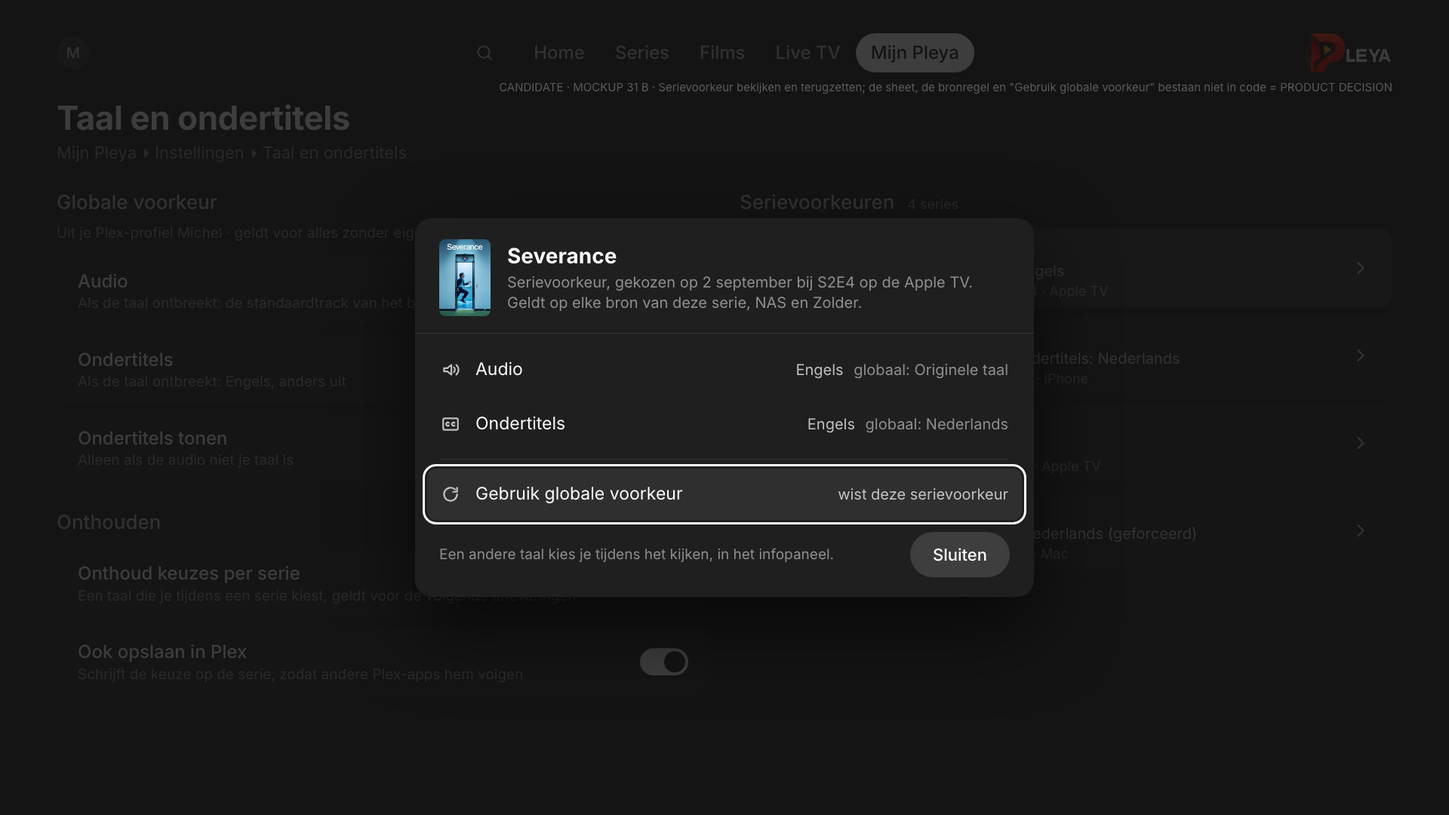
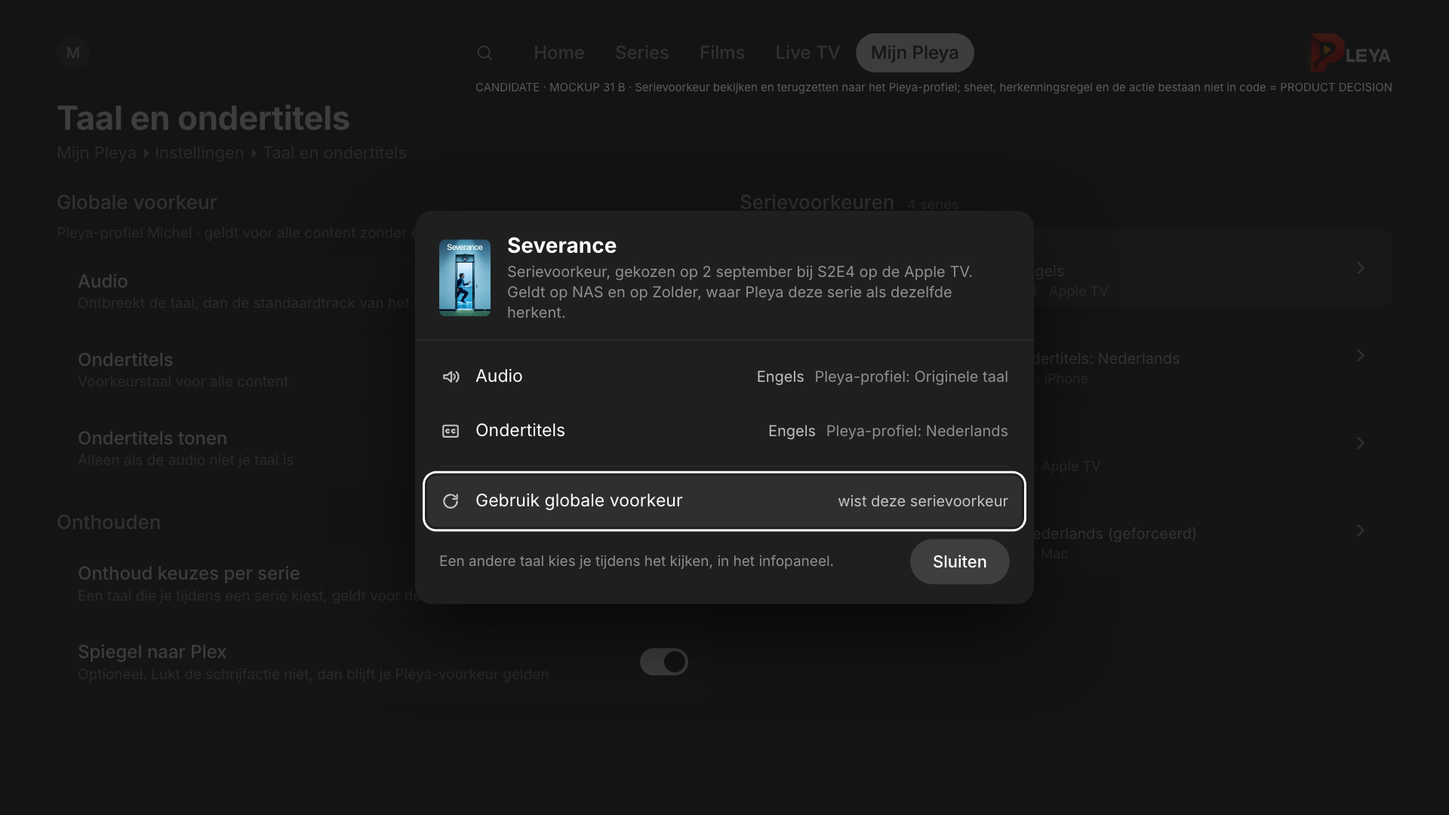
docs(tv): DEC-096 accepted, het Pleya-profiel is eigenaar van de globale taalvoorkeur, mockup 31 gecorrigeerd (LANG1)

diff --git a/docs/assets/tvos-unified/src/pages/31-taalvoorkeuren-b.html b/docs/assets/tvos-unified/src/pages/31-taalvoorkeuren-b.html
@@ -29,16 +29,16 @@
   <div class="two">
     <div>
       <div class="group-label">Globale voorkeur</div>
-      <div class="src">Uit je Plex-profiel Michel · geldt voor alles zonder eigen voorkeur</div>
+      <div class="src">Pleya-profiel Michel · geldt voor alle content zonder eigen serievoorkeur</div>
       <div class="rows">
-        <div class="row"><div class="body"><div class="t">Audio</div><div class="s">Als de taal ontbreekt: de standaardtrack van het bestand</div></div><div class="val">Originele taal</div>{{icon:chev}}</div>
-        <div class="row"><div class="body"><div class="t">Ondertitels</div><div class="s">Als de taal ontbreekt: Engels, anders uit</div></div><div class="val">Nederlands</div>{{icon:chev}}</div>
+        <div class="row"><div class="body"><div class="t">Audio</div><div class="s">Ontbreekt de taal, dan de standaardtrack van het bestand</div></div><div class="val">Originele taal</div>{{icon:chev}}</div>
+        <div class="row"><div class="body"><div class="t">Ondertitels</div><div class="s">Voorkeurstaal voor alle content</div></div><div class="val">Nederlands</div>{{icon:chev}}</div>
         <div class="row"><div class="body"><div class="t">Ondertitels tonen</div><div class="s">Alleen als de audio niet je taal is</div></div><div class="val">Bij vreemde taal</div>{{icon:chev}}</div>
       </div>
       <div class="group-label">Onthouden</div>
       <div class="rows">
         <div class="row"><div class="body"><div class="t">Onthoud keuzes per serie</div><div class="s">Een taal die je tijdens een serie kiest, geldt voor de volgende afleveringen</div></div><div class="switch on"></div></div>
-        <div class="row"><div class="body"><div class="t">Ook opslaan in Plex</div><div class="s">Schrijft de keuze op de serie, zodat andere Plex-apps hem volgen</div></div><div class="switch on"></div></div>
+        <div class="row"><div class="body"><div class="t">Spiegel naar Plex</div><div class="s">Optioneel. Lukt de schrijfactie niet, dan blijft je Pleya-voorkeur gelden</div></div><div class="switch on"></div></div>
       </div>
     </div>
     <div>
@@ -54,13 +54,13 @@
 </div>
 <div class="scrim" style="background:rgba(20,20,20,.5)"></div>
 <div class="modal sheet">
-  <div class="head"><img src="{{art:severance-poster}}"><div><div class="t">Severance</div><div class="s">Serievoorkeur, gekozen op 2 september bij S2E4 op de Apple TV.<br>Geldt op elke bron van deze serie, NAS en Zolder.</div></div></div>
+  <div class="head"><img src="{{art:severance-poster}}"><div><div class="t">Severance</div><div class="s">Serievoorkeur, gekozen op 2 september bij S2E4 op de Apple TV.<br>Geldt op NAS en op Zolder, waar Pleya deze serie als dezelfde herkent.</div></div></div>
   <div class="opts">
-    <div class="opt">{{icon:audio}} Audio <span class="r">Engels <span class="muted">globaal: Originele taal</span></span></div>
-    <div class="opt">{{icon:cc}} Ondertitels <span class="r">Engels <span class="muted">globaal: Nederlands</span></span></div>
+    <div class="opt">{{icon:audio}} Audio <span class="r">Engels <span class="muted">Pleya-profiel: Originele taal</span></span></div>
+    <div class="opt">{{icon:cc}} Ondertitels <span class="r">Engels <span class="muted">Pleya-profiel: Nederlands</span></span></div>
     <div class="opt sep"></div>
     <div class="opt focus">{{icon:refresh}} Gebruik globale voorkeur <span class="r muted">wist deze serievoorkeur</span></div>
   </div>
   <div style="padding:0 32px 26px;display:flex;justify-content:space-between;align-items:center"><span class="muted" style="font-size:19px">Een andere taal kies je tijdens het kijken, in het infopaneel.</span><div class="btn">Sluiten</div></div>
 </div>
-<div class="note">CANDIDATE · MOCKUP 31 B · Serievoorkeur bekijken en terugzetten; de sheet, de bronregel en "Gebruik globale voorkeur" bestaan niet in code = PRODUCT DECISION</div>
+<div class="note">CANDIDATE · MOCKUP 31 B · Serievoorkeur bekijken en terugzetten naar het Pleya-profiel; sheet, herkenningsregel en de actie bestaan niet in code = PRODUCT DECISION</div>

diff --git a/docs/assets/tvos-unified/src/pages/31-taalvoorkeuren-d.html b/docs/assets/tvos-unified/src/pages/31-taalvoorkeuren-d.html
@@ -1,18 +1,16 @@
 <style>
 .video { position: absolute; inset: 0; }
 .video img { width: 100%; height: 100%; object-fit: cover; object-position: 50% 40%; display: block; }
-.osd-top { position: absolute; inset: 0; background: linear-gradient(180deg, rgba(20,20,20,.75) 0%, rgba(20,20,20,0) 28%, rgba(20,20,20,0) 100%); }
-.tinfo { position: absolute; left: var(--inset); top: 56px; }
-.tinfo .t { font-size: 34px; font-weight: 700; }
-.tinfo .s { font-size: 21px; color: var(--ink-2); margin-top: 6px; }
-.tinfo .s .tag { margin-left: 8px; }
-.toast { position: absolute; left: 50%; bottom: 120px; transform: translateX(-50%); background: rgba(20,20,20,.86); border-radius: 18px; padding: 20px 30px; display: flex; align-items: center; gap: 20px; white-space: nowrap; box-shadow: 0 20px 60px rgba(0,0,0,.45); }
+.toast { position: absolute; left: 50%; top: 44px; transform: translateX(-50%); background: rgba(20,20,20,.86); border-radius: 18px; padding: 18px 28px; display: flex; align-items: center; gap: 18px; white-space: nowrap; box-shadow: 0 20px 60px rgba(0,0,0,.45); }
 .toast .pt { width: 14px; height: 14px; border-radius: 999px; background: var(--amber); flex: none; }
 .toast .t { font-size: 24px; font-weight: 500; }
 .toast .s { font-size: 19px; color: var(--ink-3); margin-top: 3px; }
+.subs { position: absolute; left: 0; right: 0; bottom: 92px; text-align: center; font-size: 38px; font-weight: 500; line-height: 1.25; text-shadow: 0 2px 6px rgba(0,0,0,.9); }
+.zone { position: absolute; left: 0; right: 0; top: 0; height: 140px; border-bottom: 1px dashed rgba(255,255,255,.18); }
+.zone span { position: absolute; right: var(--inset); bottom: 8px; font-size: 15px; color: var(--ink-4); }
 </style>
 <div class="video"><img src="{{art:severance-backdrop}}"></div>
-<div class="osd-top"></div>
-<div class="tinfo"><div class="t">Severance · S2E5 Trojan's Horse</div><div class="s">Zolder · 2160p · Engels · Nederlands (ondertiteling) <span class="tag">Direct play</span></div></div>
-<div class="toast"><div class="pt"></div><div><div class="t">Geen Engelse ondertitels in deze aflevering · nu Nederlands</div><div class="s">Je voorkeur voor Severance blijft Engels en geldt weer zodra een aflevering het heeft.</div></div></div>
-<div class="note" style="top:auto;bottom:22px;right:auto;left:50%;transform:translateX(-50%);white-space:nowrap">CANDIDATE · MOCKUP 31 D · Start van een aflevering waarin de serievoorkeur ontbreekt: tijdelijke terugval, de voorkeur blijft staan; de toast bestaat niet in code = PRODUCT DECISION</div>
+<div class="zone"><span>toastzone: bovenband 44, IgnorePointer, auto-hide</span></div>
+<div class="toast"><div class="pt"></div><div><div class="t">Geen Engelse ondertitels in deze aflevering · nu Nederlands</div><div class="s">Je voorkeur voor Severance blijft Engels en geldt weer zodra een aflevering hem heeft.</div></div></div>
+<div class="subs">Wat er beneden gebeurt, blijft beneden.</div>
+<div class="note" style="top:auto;bottom:22px;right:auto;left:50%;transform:translateX(-50%);white-space:nowrap">CANDIDATE · MOCKUP 31 D · Aflevering waarin de serievoorkeur ontbreekt: tijdelijke terugval, opslag blijft. Toast in dezelfde bovenzone, ondertitels onaangeroerd = PRODUCT DECISION</div>

diff --git a/docs/assets/tvos-unified/src/pages/31-taalvoorkeuren-a.html b/docs/assets/tvos-unified/src/pages/31-taalvoorkeuren-a.html
@@ -17,16 +17,17 @@
   <div class="two">
     <div>
       <div class="group-label">Globale voorkeur</div>
-      <div class="src">Uit je Plex-profiel Michel · geldt voor alles zonder eigen voorkeur</div>
+      <div class="src">Pleya-profiel Michel · geldt voor alle content zonder eigen serievoorkeur</div>
       <div class="rows">
-        <div class="row"><div class="body"><div class="t">Audio</div><div class="s">Als de taal ontbreekt: de standaardtrack van het bestand</div></div><div class="val">Originele taal</div>{{icon:chev}}</div>
-        <div class="row"><div class="body"><div class="t">Ondertitels</div><div class="s">Als de taal ontbreekt: Engels, anders uit</div></div><div class="val">Nederlands</div>{{icon:chev}}</div>
+        <div class="row"><div class="body"><div class="t">Audio</div><div class="s">Ontbreekt de taal, dan de standaardtrack van het bestand</div></div><div class="val">Originele taal</div>{{icon:chev}}</div>
+        <div class="row"><div class="body"><div class="t">Ondertitels</div><div class="s">Voorkeurstaal voor alle content</div></div><div class="val">Nederlands</div>{{icon:chev}}</div>
+        <div class="row"><div class="body"><div class="t">Terugvaltaal ondertitels</div><div class="s">Ontbreekt je voorkeurstaal, dan deze. Ontbreekt die ook, dan gaan ondertitels uit</div></div><div class="val">Engels</div>{{icon:chev}}</div>
         <div class="row"><div class="body"><div class="t">Ondertitels tonen</div><div class="s">Alleen als de audio niet je taal is</div></div><div class="val">Bij vreemde taal</div>{{icon:chev}}</div>
       </div>
       <div class="group-label">Onthouden</div>
       <div class="rows">
         <div class="row"><div class="body"><div class="t">Onthoud keuzes per serie</div><div class="s">Een taal die je tijdens een serie kiest, geldt voor de volgende afleveringen</div></div><div class="switch on"></div></div>
-        <div class="row"><div class="body"><div class="t">Ook opslaan in Plex</div><div class="s">Schrijft de keuze op de serie, zodat andere Plex-apps hem volgen</div></div><div class="switch on"></div></div>
+        <div class="row"><div class="body"><div class="t">Spiegel naar Plex</div><div class="s">Schrijft de keuze ook op de serie in Plex. Lukt dat niet, dan blijft je Pleya-voorkeur gewoon gelden</div></div><div class="switch on"></div></div>
       </div>
     </div>
     <div>
@@ -41,4 +42,4 @@
     </div>
   </div>
 </div>
-<div class="note">CANDIDATE · MOCKUP 31 A · Taal en ondertitels: de twee schakelaars bestaan (Afspelen); de pagina, de globale rijen en de serievoorkeurenlijst bestaan niet in code = PRODUCT DECISION</div>
+<div class="note">CANDIDATE · MOCKUP 31 A · Taal en ondertitels; het Pleya-profiel is de eigenaar, Plex is spiegeling. Pagina, globale rijen, terugvaltaal en serievoorkeurenlijst bestaan niet in code = PRODUCT DECISION</div>

diff --git a/docs/assets/tvos-unified/src/pages/31-taalvoorkeuren-c.html b/docs/assets/tvos-unified/src/pages/31-taalvoorkeuren-c.html
@@ -1,11 +1,16 @@
 <style>
 .video { position: absolute; inset: 0; }
 .video img { width: 100%; height: 100%; object-fit: cover; object-position: 50% 40%; display: block; }
-.toast { position: absolute; left: 50%; bottom: 120px; transform: translateX(-50%); background: rgba(20,20,20,.86); border-radius: 18px; padding: 20px 30px; display: flex; align-items: center; gap: 20px; white-space: nowrap; box-shadow: 0 20px 60px rgba(0,0,0,.45); }
+.toast { position: absolute; left: 50%; top: 44px; transform: translateX(-50%); background: rgba(20,20,20,.86); border-radius: 18px; padding: 18px 28px; display: flex; align-items: center; gap: 18px; white-space: nowrap; box-shadow: 0 20px 60px rgba(0,0,0,.45); }
 .toast .ic { width: 30px; height: 30px; color: var(--ink); }
 .toast .t { font-size: 24px; font-weight: 500; }
 .toast .s { font-size: 19px; color: var(--ink-3); margin-top: 3px; }
+.subs { position: absolute; left: 0; right: 0; bottom: 92px; text-align: center; font-size: 38px; font-weight: 500; line-height: 1.25; text-shadow: 0 2px 6px rgba(0,0,0,.9); }
+.zone { position: absolute; left: 0; right: 0; top: 0; height: 140px; border-bottom: 1px dashed rgba(255,255,255,.18); }
+.zone span { position: absolute; right: var(--inset); bottom: 8px; font-size: 15px; color: var(--ink-4); }
 </style>
 <div class="video"><img src="{{art:severance-backdrop}}"></div>
+<div class="zone"><span>toastzone: bovenband 44, IgnorePointer, auto-hide</span></div>
 <div class="toast">{{icon:cc}}<div><div class="t">Ondertitels: Engels · onthouden voor Severance</div><div class="s">Volgende afleveringen starten zo. Je globale voorkeur blijft Nederlands.</div></div></div>
-<div class="note" style="top:auto;bottom:22px;right:auto;left:50%;transform:translateX(-50%);white-space:nowrap">CANDIDATE · MOCKUP 31 C · Na een keuze in het infopaneel tijdens S2E4: het paneel sluit, de bevestiging staat 3 seconden; de toast bestaat niet in code = PRODUCT DECISION</div>
+<div class="subs">I'm a person, not a display.</div>
+<div class="note" style="top:auto;bottom:22px;right:auto;left:50%;transform:translateX(-50%);white-space:nowrap">CANDIDATE · MOCKUP 31 C · Bevestiging na een keuze in het infopaneel; de toast staat in de bestaande bovenzone en raakt de ondertitels niet. Tweede regel bestaat niet in code = PRODUCT DECISION</div>

diff --git a/docs/DECISIONS.md b/docs/DECISIONS.md
@@ -1838,10 +1838,10 @@ en legt het oude gedrag vast: na een volledige-venster push is niets in de balk 
 **Decision:** (1) **De hero is full-bleed.** De backdrop staat op 16:9 schermvullend achter de topnav en de herotekst; op een 16:9-bron is er geen uitsnede meer, en voor een bron in een andere ratio blijft `TvHomeLayout.heroArtAlignment` uit DEC-094 de enige eigenaar van de uitsnede. De billboardkaart met ring, radius en schaduw uit 9.2 en 33.1 vervalt. Twee scrims: horizontaal van links voor de tekstkolom, verticaal boven voor de nav en onder naar de paginagrond, zodat de posters van de eerste rail op de grond staan en niet op het beeld. (2) **De landing is A1, de rail piept.** Op de 1080-referentie staat de tekstkolom op 579 tot 840 (titel 56, meta, synopsis van twee regels, CTA's van 60), het label van de eerste rail op 880 en de posters piepen 147 van 346 boven de onderrand. Het onderwerp van de backdrop staat daarmee heel in beeld; de eerste rail staat dat niet meer, en dat is de prijs die 9.2 hier betaalt. De rustfocus van 7.1 blijft de primaire CTA. (3) **Eén anker voor elke rij: het label van de gefocuste rail staat onder de navbalk.** Op DOWN uit de CTA's scrolt de feed daarheen, de herotekst dooft en de backdrop treedt terug; er blijft geen band voor de hero open. Northstar 02 zet het label van de eerste rail op 372, en die 242 referentiepixels onder de balk waren daar de zichtbare onderrand van de billboardkaart. Full-bleed heeft die kaart verwijderd, dus onder de nieuwe compositie hielden ze ruimte vrij voor iets dat er niet meer is: een railsectie is 524 hoog, dus bijna de helft van een rij ging op aan een backdrop waar de dim de contrasten al uit had gehaald, en op een donker beeld las dat als een lege band. Michel heeft dat op 4 september op de simulator gezien en gekozen om het anker helemaal weg te halen. De hero blijft bereikbaar: UP brengt hem terug in beeld (P1), en tijdens de scroll ernaartoe is hij zichtbaar; hij verandert daar niet (7.3, de rijfocus kiest de hero niet, en 9.6 pauzeert de rotatie zolang een rij focus heeft). (4) **Dieper op de pagina ankert het gefocuste label onder de nav.** Zodra de hero uit beeld is staat het label van de gefocuste rail op 132 in plaats van op 372, zodat de volgende rail er heel onder staat. (5) **Het bijschrift wordt korter.** Achttien referentiepixels boven de titel, titel 27, meta 20 met puntspatiëring, synopsis op één regel met ellipsis, 26 naar het volgende label. Dit amendeert DEC-087's "titel, meta en synopsis eronder" van twee regels naar één; de band 346, de 615-kaart en de 231-buren blijven. (6) **Styling en labels.** Nieuw is een amberpunt van 12 rechtsboven op de kaart, geen tekstpil; het vinkje is de witte schijf met donkere tick uit 33.5; `discover.latestShows` krijgt zijn Nederlandse vertaling "Recent toegevoegde series"; de topnav dimt naar 0,35 zodra een overlay open is. De profielchip toont de initiaal van het actieve profiel wanneer er geen beeld is, niet het merk. (7) **De poster-only fallback van 9.4 blijft** en werkt onder full-bleed als dezelfde poster sterk geblurd en donker als schermvulling met de scherpe poster als eiland rechts (`30-home-d`). Mockup 30 A1, B, C, D en E zijn bindend voor de compositie; `01-home.jpg` en `02-home-rail-focus.jpg` blijven bindend voor wat ze daarnaast vastleggen en krijgen een afwijkingsnotitie.
 **Consequences:** Hoofdstuk 9.1, 9.2, 7.1 en 33.1/33.2 zijn aangepast; 9.3 en 9.6 staan er ongewijzigd naast en zijn nagelopen. De ambient tint van 9.3 blijft in fase 9 (`docs/tvos-unified-fase8-ambient-background-deviation.md`, goedgekeurd 1 september): mockup 30 B en C tekenen hem als eindstaat, de HOME1-bouwronde laat de paginagrond vlak en haalt hem niet naar voren. De code verandert nog niet; de bouw is een eigen ronde. Wat die ronde raakt: `TvContentFeed` legt de carousel niet meer in een `Padding` met `SizedBox` op `heroHeight`, maar schermvullend achter de kolom met de rijen als overlay en een scroll die op DOWN naar het anker gaat; `TvHeroBillboardCard` verliest ring, radius en schaduw en krijgt de twee scrims; `TvDiscoveryLayout.metaSynopsisMaxLines` gaat naar 1 en `railMetaGap` en de labelmarges volgen de maten hierboven; `NewContentBadge` krijgt op de TV-kaart de puntvorm; `nl.i18n.json` krijgt `latestShows`; `TvTopNavigation` krijgt de dim; de initiaal zonder profielbeeld tekent `ProfileAvatar` al, het merk verschijnt alleen zonder profiel. De bijschriftfonts volgen mockup 30 mee (titel 27, meta 20, synopsis 19 referentiepixels, raillabel 27 in plaats van 31,5: audit divergentie 6), en dat raakt ook de Films- en Serieslanding en Zoeken, die dezelfde rail tekenen. Voor de nav bovenop de content wisselt de shell zijn `Column` voor een `CustomMultiChildLayout` die de balk eerst uitmeet en als laatste tekent, en publiceert de gemeten bandhoogte via `TvShellSurface` zodat de feed de backdrop er precies achter kan trekken. Negatieve controle voor de bouwronde: een widgettest die `TvContentFeed` op het canonieke canvas pompt en eist dat de hero de volle contentbreedte en -hoogte inneemt zonder pagina-inset, dat het label van de eerste rail in de landing zichtbaar is met de band gedeeltelijk onder de viewport, en dat na DOWN het label op het anker staat; rood op de huidige code. Wat dit besluit niet doet: de featured selectie (9.5), het carouselcontract (9.6) en de late-data-regels (9.7) veranderen niet. Geaccepteerd door Michel op 4 september 2026: "Ik denk a 1 de rail piept en btme akkoord".
 
-## DEC-096: Taalvoorkeuren in drie lagen, met een fallback die niets overschrijft
+## DEC-096: Taalvoorkeuren in vier lagen, met het Pleya-profiel als eigenaar
 
 **Date:** 2026-09-04
-**Status:** proposed
-**Context:** LANG1 in `docs/tvos-fysieke-correctieronde.md`, sectie G van de personalisatie-opdracht van 4 september. Het per-serie taalgeheugen van 17 augustus (`TrackPreferenceStore`, de sticky-prioriteit in `TrackSelectionService`, de Plex-spiegeling) dekt de gevraagde journey grotendeels, maar de code legt drie dingen niet vast. De speler geeft bij de overgang naar de volgende aflevering de spelende track door als navigatiekeuze, en die staat boven de sticky keuze, dus een tijdelijke fallback wordt binnen de sessie permanent. De sleutel is een ratingKey op één server, terwijl hoofdstuk 14.8 de bronvoorkeur al op de canonieke identiteit sleutelt. En er is geen beheer: geen overzicht, geen terugzetten. De secties A tot en met F van de opdracht zijn in de ontwerpsessie niet beschikbaar; dit besluit gaat uit van het serverprofiel als globale laag en moet worden bijgesteld als die secties een eigen laag in Pleya vragen.
-**Decision:** (1) **Drie lagen, in deze volgorde.** De uitdrukkelijke keuze in de lopende afspeelsessie, als bedoeling en niet als uitkomst; de serievoorkeur per profiel en logische serie (een film sleutelt op zichzelf); de globale profielvoorkeur, en dat is het gebruikersprofiel op de server, Plex-account of Jellyfin-gebruiker, zonder eigen laag in Pleya. (2) **De fallback is tijdelijk en voorspelbaar.** Audio: serievoorkeur, globale audiotaal, serverkeuze, standaardtrack. Ondertitels: serievoorkeur, globale ondertiteltaal in de profielmodus, uit. Nooit de eerste track in een willekeurige taal. Een onthouden "uit" wint altijd. Een fallback wordt niet opgeslagen, reist niet mee naar de volgende aflevering en meldt zich één keer met een toast. (3) **Een wijziging tijdens een serie is de serievoorkeur.** Geen driekeuzevraag; een toast bevestigt de keuze en zegt dat de globale voorkeur blijft. "Alleen deze aflevering" is de schakelaar Onthouden voor deze serie in het infopaneel. De globale voorkeur wordt alleen op de instellingenpagina gewijzigd, en alleen waar de backend een schrijfpad heeft. (4) **De sleutel wordt logisch.** `show:{genormaliseerde titel}` plus de sterke tokens op show-niveau waar bekend, per profiel; de serversleutel blijft als terugval leesbaar en wordt bij de eerstvolgende schrijfactie omgezet. Matching op taal, type, geforceerd en titel, nooit op stream-id. (5) **Beheer op één plek.** Mijn Pleya ▸ Instellingen ▸ Taal en ondertitels toont de globale voorkeur met bron, de serievoorkeuren met herkomst, en per serie de actie Gebruik globale voorkeur. De twee bestaande schakelaars verhuizen uit Afspelen hierheen. Mockup 31 A tot en met D is de compositie.
-**Consequences:** `TrackSelectionService` moet een navigatiekeuze die zelf een fallback was niet boven de sticky keuze zetten, en `episode_navigation.dart` geeft de bedoeling door en niet de spelende track. `TrackPreferenceStore` krijgt een tweede sleutel en een leesvolgorde; `TrackLanguageChoice` krijgt een manier om een veld te wissen zodat een regel weer leeg kan worden. `PlayerToastController` krijgt een tweede regel en een langere duur. De pagina is een nieuwe Instellingen-subpagina in de bestaande geneste route, en `playback_settings_screen.dart` verliest twee rijen. Het Plex-schrijfpad voor accountinstellingen wordt gemeten voordat een rij op de pagina hem aanroept. Wat dit besluit niet doet: het verandert de Plex-spiegeling niet, het voegt geen Pleya-eigen globale laag toe, en het raakt de bronvoorkeur van 14.8 niet. Wordt het aangenomen, dan is LANG1 de bouwronde, met de drie negatieve controles die daar staan.
+**Status:** accepted
+**Context:** LANG1 in `docs/tvos-fysieke-correctieronde.md`, sectie G van de personalisatie-opdracht van 4 september. Het per-serie taalgeheugen van 17 augustus (`TrackPreferenceStore`, de sticky-prioriteit in `TrackSelectionService`, de Plex-spiegeling) dekt de gevraagde journey grotendeels, maar de code legt drie dingen niet vast. De speler geeft bij de overgang naar de volgende aflevering de spelende track door als navigatiekeuze, en die staat boven de sticky keuze, dus een tijdelijke terugval wordt binnen de sessie permanent. De sleutel is een ratingKey op één server, terwijl hoofdstuk 14.8 de bronvoorkeur al op de canonieke identiteit sleutelt. En er is geen beheer: geen overzicht, geen terugzetten. Het voorstel van 4 september zette het serverprofiel als globale eigenaar; Michel heeft dat in de beslissingsronde van dezelfde dag afgewezen, omdat de eis luidt dat de voorkeur voor álle content geldt, ook over servers en backends heen. Dit besluit is de gecorrigeerde versie.
+**Decision:** (1) **Vier lagen, in deze volgorde.** Een uitdrukkelijke keuze van de kijker tijdens de lopende playback; de serievoorkeur; de globale voorkeur op het Pleya-profiel; de terugval op bron en bestand. (2) **"Uitdrukkelijke keuze" is uitsluitend een echte handeling van de kijker.** Het is niet de spelende track, niet een automatisch gekozen terugval, niet een track die uit de vorige aflevering is doorgegeven, en niet een bron-default die toevallig aanstond. Iedere nieuwe aflevering resolveert de intentie opnieuw uit de lagen hierboven. (3) **Het terugvalcontract.** Audio: is de gewenste taal of de originele taal aanwezig, dan die; anders tijdelijk de bron- of standaardtrack. Ondertitels: is de gewenste taal aanwezig, dan die; anders de ingestelde terugvaltaal als die beschikbaar is; anders uit. Nooit "de eerste beschikbare ondertiteltrack". De terugvaltaal is een echte profielvoorkeur (`subtitleFallbackLanguage` op het Pleya-profiel, in de UI "Terugvaltaal ondertitels"), geen hardgecodeerd Engels; hij wordt bij eerste gebruik geseed uit de gerangschikte lijst van het serverprofiel waar die bestaat, en is daarna zelfstandig te wijzigen. Een terugval is tijdelijk: hij wijzigt de serievoorkeur niet, hij wijzigt de globale voorkeur niet, en hij reist niet mee naar de volgende aflevering. (4) **Geen driekeuzevraag.** Staat "Onthoud keuzes per serie" aan en wisselt de kijker bewust van audio of ondertitel, dan wordt dat direct toegepast, wordt de serievoorkeur bijgewerkt en bevestigt een korte toast dat. Staat de schakelaar uit, dan geldt de wissel alleen voor die playbacksessie en ontstaat er geen serie-override. De globale voorkeur verandert nooit automatisch vanuit de speler; die wijzig je uitsluitend in Mijn Pleya ▸ Instellingen ▸ Taal en ondertitels. (5) **Het Pleya-profiel is de eigenaar van de globale voorkeur.** `PleyaProfilePlaybackLanguagePreferences` draagt minimaal de audiovoorkeur, de ondertitelvoorkeur, het ondertitelbeleid, de terugvaltaal en `rememberPerSeries`. Serverprofielen zijn een spiegel, nooit de autoriteit. (6) **Spiegelen naar Plex blijft, capability-gated.** Het Pleya-profiel is canoniek, Plex is een optionele spiegeling waar de backend hem ondersteunt, en een andere backend krijgt zijn eigen capability als hij die later krijgt. Een mislukte schrijfactie naar Plex maakt de Pleya-voorkeur niet ongeldig en rolt niets terug. (7) **De serievoorkeur hoort bij de logische serie waar de identiteit betrouwbaar is.** Dezelfde logische serie op NAS, Zolder of een andere server deelt dan één voorkeur. Een onterechte samenvoeging is erger dan een gemiste: is er geen betrouwbare cross-source identiteit, dan valt de sleutel terug op de concrete server-en-serie-sleutel, en er komt geen samenvoeging op alleen titel en jaar bij die vandaag niet bestaat. De bestaande serversleutel blijft het migratie- en terugvalpad. (8) **Nooit track-id's bewaren.** Opgeslagen wordt de intentie: taal, de intentie "originele taal", en het ondertitelbeleid. Niet een trackindex, een track-id of een stream-id van één aflevering. Elke concrete playback resolveert opnieuw tegen de beschikbare tracks. (9) **Eén beheerplek.** Mijn Pleya ▸ Instellingen ▸ Taal en ondertitels toont de globale voorkeur met eigenaar, de serievoorkeuren met herkomst, en per serie de actie "Gebruik globale voorkeur", die de hele serie-override wist waarna het Pleya-profiel direct weer geldt. De taalschakelaars die nu onder Afspelen staan verhuizen hierheen; er blijven geen twee onafhankelijke eigenaren bestaan. Heeft het spelerinfopaneel later een beheeringang nodig, dan linkt het naar deze pagina in plaats van dezelfde instelling opnieuw lokaal te bouwen. (10) **De toast is een presentatiecontract.** Hij pakt geen focus, blokkeert geen afstandsbedieningsinvoer, verdwijnt vanzelf en staat in de bestaande spelerzone: `PlayerToastIndicator` in de `Positioned.fill` met `IgnorePointer` uit `video_controls.dart`, boven uitgelijnd. Ondertitels staan onderaan onder `SettingsService.subtitlePosition`, dus die zone raakt ze per constructie niet. Geen zelf gekozen Y-positie. Mockup 31 A tot en met D is bindend voor de compositie.
+**Consequences:** `TrackSelectionService` krijgt een intentie in plaats van een doorgegeven track als prioriteit 1, en `episode_navigation.dart` geeft die intentie door in plaats van `currentAudioTrack` en `currentSubtitleTrack`. `TrackPreferenceStore` krijgt een logische sleutel met de serversleutel als terugval en een migratie bij de eerstvolgende schrijfactie; `TrackLanguageChoice` krijgt een manier om een veld te wissen zodat een regel weer leeg kan worden. Er komt een profielvoorkeurenmodel op het Pleya-profiel met een seed uit het serverprofiel, en de Plex-schrijfactie wordt een capability-gated spiegeling die bij mislukking alleen logt. `PlayerToastIndicator` krijgt een tweede regel en een langere standaardduur en blijft in zijn bestaande zone. De pagina is een nieuwe Instellingen-subpagina in de bestaande geneste route, en `playback_settings_screen.dart` verliest de twee taalschakelaars. De negatieve controles staan als CONTROL A tot en met I onder LANG1 en draaien rood voordat er een regel productiecode verandert. Wat dit besluit niet doet: het raakt de bronvoorkeur van hoofdstuk 14.8 niet, het verandert de identiteitsregels van hoofdstuk 11 niet, en het introduceert geen nieuwe samenvoegingsregel om taalvoorkeuren te kunnen delen. Goedgekeurd door Michel op 4 september 2026 in de beslissingsronde LANG1 / mockup 31, met de tien correcties hierboven als bindend.

diff --git a/docs/tvos-fysieke-correctieronde.md b/docs/tvos-fysieke-correctieronde.md
@@ -124,7 +124,7 @@ code-parity-audit die daaronder ligt. De voortgang per heringericht oppervlak st
 | SRCH2 | `people` wordt nooit aan `searchProjection` meegegeven | OPEN | n.v.t. |
 | REV1 | Apple Review Jellyfin: Home toont content, Films/Series leeg en concrete library niet zichtbaar (Apple Review, release-kritiek) | OPEN | n.v.t. |
 | LAND7 | Actieve discovery-rail krijgt geen vaste verticale focuspositie | OPEN | n.v.t. |
-| LANG1 | Taalcontinuïteit binnen series: hiërarchie, fallbackcontract en beheer van serievoorkeuren (sectie G), mockup 31 | OPEN | n.v.t. |
+| LANG1 | Taalcontinuïteit binnen series: hiërarchie, terugvalcontract en beheer van serievoorkeuren (sectie G). Ontwerp goedgekeurd, DEC-096 accepted, bouwronde vrijgegeven | OPEN | n.v.t. |
 
 ## Wat er per item bekend is
 
@@ -2315,7 +2315,9 @@ Een vierde punt is kleiner: valt de sticky ondertitel weg en staat het profiel o
 dan kiest `_findFirstSubtitleTrack` de eerste track in welke taal dan ook. Dat is geen
 voorspelbare fallback.
 
-**Voorkeurshiërarchie, als productbesluit (DEC-096, voorgesteld).**
+**Voorkeurshiërarchie, zoals voorgesteld op 4 september.** Michel heeft dit in de
+beslissingsronde hieronder op vier punten gecorrigeerd; DEC-096 draagt de gecorrigeerde
+versie en gaat vóór op de tekst in deze alinea.
 
 1. *Uitdrukkelijke keuze in deze afspeelsessie.* Wat de kijker net koos, als bedoeling: "de
    Engelse ondertitel", niet "track 3". Een fallback is geen keuze en komt hier niet in.
@@ -2414,3 +2416,76 @@ de nieuwe pagina die de rij, de sheet en het wissen eist. Daarna de fallback-toa
 verhuizing van de twee schakelaars, en een Pleya Verify-scenario voor de journey op de
 tvOS-simulator. Raakt de bouw het Plex-schrijfpad voor het account, dan gaat daar eerst een
 contractmeting aan vooraf.
+
+**Beslissingsronde van Michel, 4 september.** Doorgaan naar implementatie, met tien bindende
+correcties. DEC-096 is daarmee accepted; waar deze sectie en het besluit verschillen, wint het
+besluit.
+
+1. *De hiërarchie krijgt vier lagen:* uitdrukkelijke keuze tijdens de lopende playback,
+   serievoorkeur, globale Pleya-profielvoorkeur, terugval op bron en bestand. "Uitdrukkelijke
+   keuze" is alleen een echte handeling. Niet de spelende track, niet een terugval, niet een
+   track-id uit de vorige aflevering, niet een bron-default die toevallig aanstond. Elke
+   aflevering resolveert de intentie opnieuw.
+2. *Het terugvalcontract.* Audio: gewenste of originele taal, anders tijdelijk de bron- of
+   standaardtrack. Ondertitels: gewenste taal, anders de ingestelde terugvaltaal, anders uit.
+   Nooit de eerste beschikbare track. Engels wordt niet als universele regel vastgelegd: de
+   terugvaltaal wordt een echte profielvoorkeur, zichtbaar als eigen rij op de pagina.
+3. *Geen driekeuzevraag.* Staat "Onthoud keuzes per serie" aan, dan werkt een bewuste wissel
+   de serievoorkeur bij met een toast. Staat hij uit, dan geldt de wissel alleen voor die
+   sessie en ontstaat er geen override. De globale voorkeur verandert nooit vanuit de speler.
+4. *De globale eigenaar is het Pleya-profiel, niet het serverprofiel.* De eis is dat de
+   voorkeur voor alle content geldt, ook over servers en backends heen.
+   `PleyaProfilePlaybackLanguagePreferences` draagt audio, ondertitels, beleid, terugvaltaal en
+   `rememberPerSeries`. Bronprofielen zijn spiegel, geen autoriteit.
+5. *Spiegelen naar Plex blijft, capability-gated.* Een mislukte schrijfactie maakt de
+   Pleya-voorkeur niet ongeldig. De copy in 31 A noemt daarom het Pleya-profiel als eigenaar.
+6. *Serie-identiteit.* Logische serie waar de identiteit betrouwbaar is, anders de concrete
+   server-en-serie-sleutel. Een onterechte samenvoeging is erger dan een gemiste, en er komt
+   geen samenvoeging op alleen titel en jaar bij om taalvoorkeuren te kunnen delen. De
+   serversleutel blijft migratie- en terugvalpad.
+7. *Nooit track-id's bewaren.* Opgeslagen wordt taal, de intentie "originele taal" en het
+   ondertitelbeleid. Nooit een trackindex, track-id of stream-id.
+8. *31 A en 31 B zijn goedgekeurd*, met de eigenaarscorrectie in de copy. De tweekolomsindeling
+   en de serievoorkeurenlijst met herkomst blijven.
+9. *31 C en 31 D zijn goedgekeurd met een presentatiecontract voor de toast:* geen focus, geen
+   blokkerende invoer, verdwijnt vanzelf, en ondertitel-veilig geplaatst in een bestaande
+   spelerzone. Geen zelfgekozen Y-positie.
+10. *De pagina is de enige beheerplek.* De taalschakelaars onder Afspelen verhuizen hierheen.
+    Heeft het infopaneel later een ingang nodig, dan linkt het hierheen.
+
+**Wat de correcties aan de mockups veranderd hebben.** De vier beelden zijn opnieuw geschoten
+op dezelfde nummers. In 31 A staat nu "Pleya-profiel Michel · geldt voor alle content zonder
+eigen serievoorkeur" waar eerst het Plex-profiel als bron stond, is "Terugvaltaal ondertitels"
+een eigen rij geworden in plaats van een hardgecodeerd Engels in de ondertekst, en heet de
+tweede schakelaar "Spiegel naar Plex" met de regel dat een mislukte schrijfactie de
+Pleya-voorkeur laat staan. In 31 B leest de sheet de globale waarden als "Pleya-profiel: ..."
+en zegt de kop dat de voorkeur geldt waar Pleya de serie als dezelfde herkent, in plaats van
+onvoorwaardelijk op elke bron. In 31 C en 31 D is de toast verplaatst van onderin naar de
+bestaande bovenzone, en beide beelden tekenen nu een echte ondertitelregel onderaan mee, zodat
+te zien is dat de toast er niet overheen valt.
+
+**De toastzone heeft een bestaande eigenaar, dus het contract wijst er alleen naar.**
+`video_controls.dart:986-1004` zet de toast al in een `Positioned.fill` met een `IgnorePointer`
+eromheen, en `PlayerToastIndicator` lijnt boven uit met een `AnimatedSwitcher` en de auto-hide
+van `PlayerToastController`. Dat is precies wat het contract vraagt: geen focus, geen invoer,
+zelf verdwijnend. Ondertitels staan onderaan onder `sub-pos` (`SettingsService.subtitlePosition`,
+standaard 100), dus de bovenzone en de ondertitels kunnen elkaar niet raken. De bouwronde voegt
+alleen een tweede regel en een langere duur toe en verplaatst niets.
+
+**De negatieve controles van de bouwronde, alle rood voordat er code verandert.**
+
+| Controle | Wat hij eist |
+|----------|--------------|
+| A | Een terugval in aflevering N besmet aflevering N+1 niet |
+| B | De serievoorkeur werkt over de volgende aflevering en het volgende seizoen |
+| C | De globale voorkeur komt uit het Pleya-profiel |
+| D | Gewenst, terugval, gewenst weer beschikbaar: de gewenste taal wordt opnieuw gekozen |
+| E | Handmatige wissel met `rememberPerSeries` aan schrijft de serie-override |
+| F | Handmatige wissel met `rememberPerSeries` uit schrijft geen serie-override |
+| G | "Gebruik globale voorkeur" verwijdert de serie-override |
+| H | Dezelfde logische serie op een betrouwbare tweede bron gebruikt dezelfde voorkeur |
+| I | Een onbetrouwbare identiteit wordt niet over servers heen samengevoegd |
+
+Volgorde: eerst oud rood aantonen, dan implementeren, dan groen. Daarbovenop de drie stappen
+die al onder deze bevinding stonden: de widgettest op de nieuwe pagina, de verhuizing van de
+schakelaars, en een Pleya Verify-scenario voor de journey op de tvOS-simulator.

diff --git a/docs/sessions/2026-09-04.md b/docs/sessions/2026-09-04.md
@@ -64,3 +64,20 @@
 
 ---
 
+## 19:12 tot 20:59 (1u 46m)
+
+**Start:** Pleya tvOS, vervolg 4 september 2026. main = c680f09. Lees eerst docs/tvos-fysieke-correctieronde.md (HOME1, HERO1, HERO2, LIB7, CAT5, I18N5
+
+**Commits:**
+
+- 79c94fd3 docs(tv): HOME1 draagt ook 7b3057a6, de ankercorrectie
+- 7b3057a6 fix(tv): een gefocuste rail ankert onder de navbalk, zonder band voor de hero (HOME1)
+- e9decfeb docs(tv): HOME1 en I18N5 gesloten op eed2a79, register TA-5, TA-6 en TA-13 dicht, DEC-095 gevolgen bijgewerkt
+- eed2a795 feat(tv): de Home-hero full-bleed met de rail die eronder piept, en een dichtere railstapel (HOME1, I18N5)
+- a21b43cc docs(tv): DEC-095 accepted, de Home-hero full-bleed met de rail die eronder piept, HOME1 goedgekeurd
+- 9f582f80 docs(tv): HOME1, mockup 30 met vier landing-opties voor de full-bleed hero en de geoptimaliseerde railstapel
+
+**Stats:** 294 turns, 20,980 in / 590,165 out tokens, **$88.93**
+
+---
+

diff --git a/docs/tvos-redesign-register.md b/docs/tvos-redesign-register.md
@@ -85,6 +85,7 @@ begint, meldt dat; wie klaar is, committeert en geeft de worktree vrij.
 | MOC-23 | Offline | PB-12 | OPEN | |
 | MOC-24 | Collectie | PB-13 | OPEN | |
 | MOC-25 | Persoon, `CanonicalPersonIdentity` | PB-14 | OPEN | |
+| MOC-31 | Taal en ondertitels, vier lagen met het Pleya-profiel als eigenaar | DEC-096 | OPEN | ontwerp goedgekeurd 4 sep |
 
 ## SYS-1a, wat er staat
 
